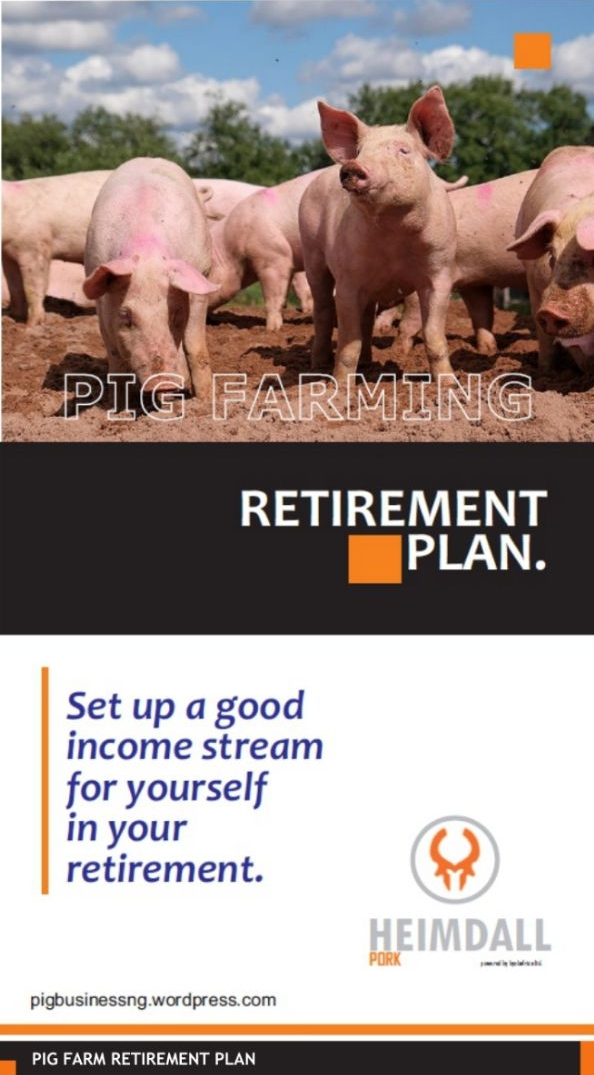
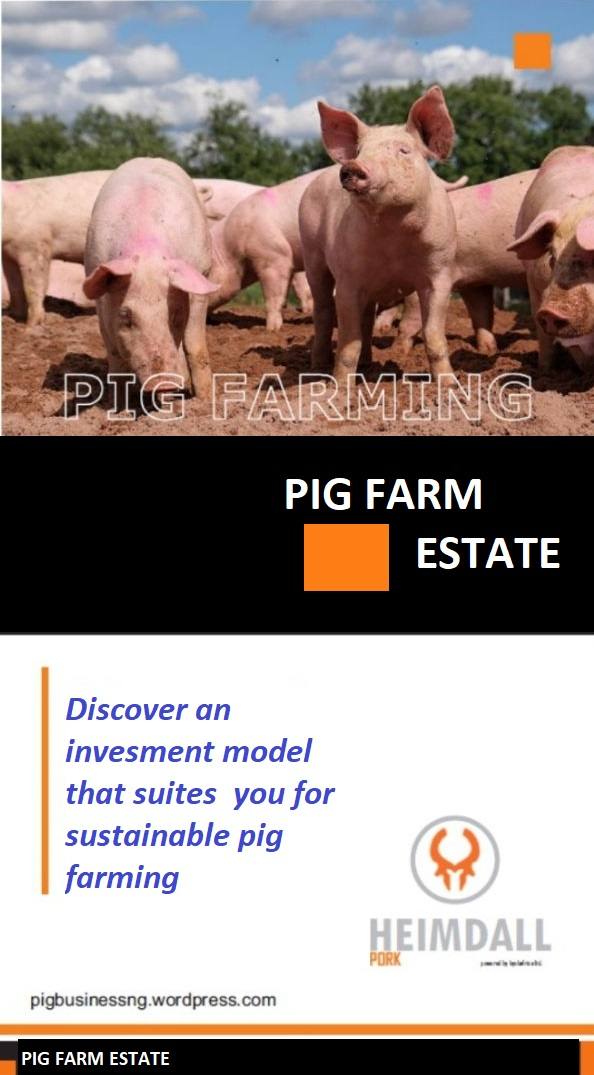
updating

Changed region(s): [[0.0, 0.3991, 1.0, 0.614], [0.0909, 0.6447, 0.5758, 0.8288], [0.0303, 0.9516, 1.0, 1.0]]

diff --git a/index.html b/index.html
@@ -140,7 +140,7 @@
     <div class="col-md-6 col-lg-4 mb-4" data-aos="zoom-in">
       <div class="card shadow">
         <a href="pdf/FINAL UPDATE PIG FARM RETIREMENT PROPOSAL.pdf" target="_blank">
-          <img src="assets/img/retirement-plan.jpg" class="card-img-top" alt="Retirement Plan">
+          <img src="assets/img/retirement-planoriginal.jpg" class="card-img-top" alt="Retirement Plan">
         </a>
         <div class="card-body">
           <h5 class="card-title">Retirement Plan</h5>
@@ -153,12 +153,11 @@
 
       <div class="card shadow">
         <a href="pdf/HEIMDALL PIG FARMING ESTATE.pdf" target="_blank">
-          <img src="assets/img/Screenshot_20250802-152844_2.png" class="card-img-top" alt="Company Profile">
+          <img src="assets/img/retirement-plan.jpg" class="card-img-top" alt="Company Profile">
         </a>
         <div class="card-body ">
-          <div class="bg-dark m-0 p-0"  style="width:100%; height: 10px; border-left:#ffc107 solid 5px; border-top: 6px solid ;"></div>
           <h5 class="card-title">Pig Farm Estate</h5>
-          <p class="card-text">Discover our estate layout, investment model, and long-term vision for sustainable pig farming.</p>
+          <p class="card-text">Discover our estate layout and investment model for sustainable pig farming.</p>
         </div>
       </div>
     </div>
@@ -178,8 +177,27 @@
         <img src="assets/img/logo.png" class="mb-3" style="height: 150px;" alt="Logo">
         <p>
           Telephone: +2347026728421<br>
+          TEL : + 234 - 702 672 8421<br>
           Email: info@byobafrica.com<br>
-          Address: 5a Yar-Adua Drive, Off Onitcha Road, Owerri, Imo State
+          E Mail :greenhouseorg@yahoo.com<br>
+          Address: 
+          5a Yar-Adua Drive, Off Onitcha Road, Owerri, Imo State
+          <h5>Lagos State</h5>
+            1A. Abimbola Crescent,
+            Matori Industrial Estate,
+            Matori, Lagos.
+          <h5>Imo State</h5>
+          Ruwof house,
+          Plot p1,yaradua drive
+          Off onitsha road,
+          Opposite new itc park,
+          Owerri.
+          <h5>Ghana</h5>
+          America House
+          Ajinringanor Road
+          East Legon
+          Accra, Ghana
+
         </p>
       </div>
 
@@ -242,7 +260,7 @@
           <a href="https://pigbusinessng.wordpress.com/" target="_blank">https://pigbusinessng.wordpress.com/</a>
         </p>
         <p>After you have an idea of what we do, whatever your query, we will do our best to respond in a way that is helpful to you.</p>
-        <h3>The Potential of Pig Farming</h3>
+        <h5>The Potential of Pig Farming</h3>
         <p>Pig Farming or Pork production is one of the most overlooked aspects of profitable agribusiness in Nigeria.</p>
         <p>Most people do not know that:</p>
         <ul>
@@ -250,14 +268,14 @@
           <li>Pig Farming is the most profitable section of livestock farming.</li>
         </ul>
         <p>At least 120 million Nigerians consume about 16kg of pig meat per year each. 1kg of pig meat currently sells for at least ₦2,500. Multiply that by 16kg by 120 million. The facts are all over the Internet for you to confirm. These are actually conservative estimates.</p>
-        <h3>Here's the Bomb!</h3>
+        <h5>Here's the Bomb!</h5>
         <p>Nigeria imports more Pork than it produces to meet its local demand — in fact, more than 60%. Please check online to confirm.</p>
         <p>There are many reasons for this:</p>
         <ul>
           <li>Pigs have a negative PR in Nigeria, most of which is mythical and false.</li>
           <li>Traditional farmers are still the major players in the sector and they still do things the same old way, which is far from efficient (low output).</li>
         </ul>
-        <h3>The Business Model</h3>
+        <h5>The Business Model</h3>
         <p>One female Pig can give you at least 25 offspring in a year. A pig farm you start with just five females following our business model will have grown into a farming business grossing at least ₦75 million annually within 6 years.</p>
         <p>(Reach out. We will send you a detailed report to show this is actually quite conservative.)</p>
         <p>What if you started with ten females? What if you started with 50 females? Do the calculations yourself. This is how China does it. China is the number 1 producer in the world not because of their size but because of their strategy.</p>
@@ -270,7 +288,7 @@
         <p>If you follow the rules, you will only lose money when people stop eating and the population stops growing.</p>
         <p>Agriculture is the way forward for Nigeria — and Pig Farming is the easiest to start and probably the most profitable aspect of agriculture in Nigeria.</p>
         <p>But you have to do it right. Follow the rules and you will smile to the bank.</p>
-        <h3>We are here to work with you. Welcome to the Pig Business.</h3>
+        <h3>We are here to work with you. Welcome to the Pig Business.</h5>
       </div>
     </div>
   </div>
